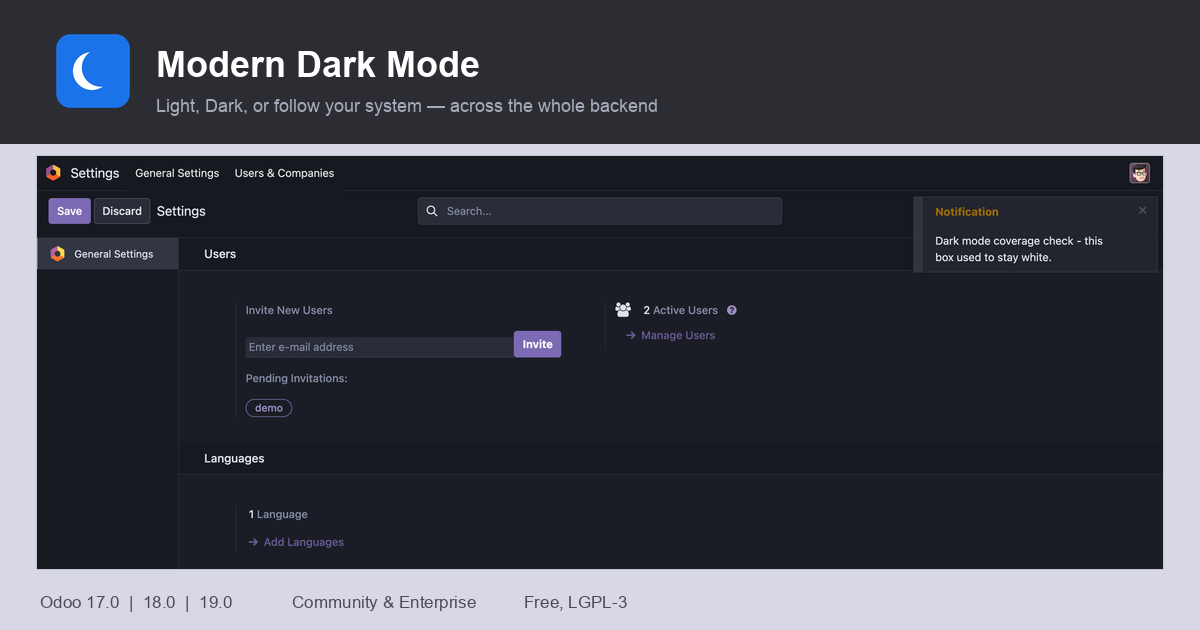
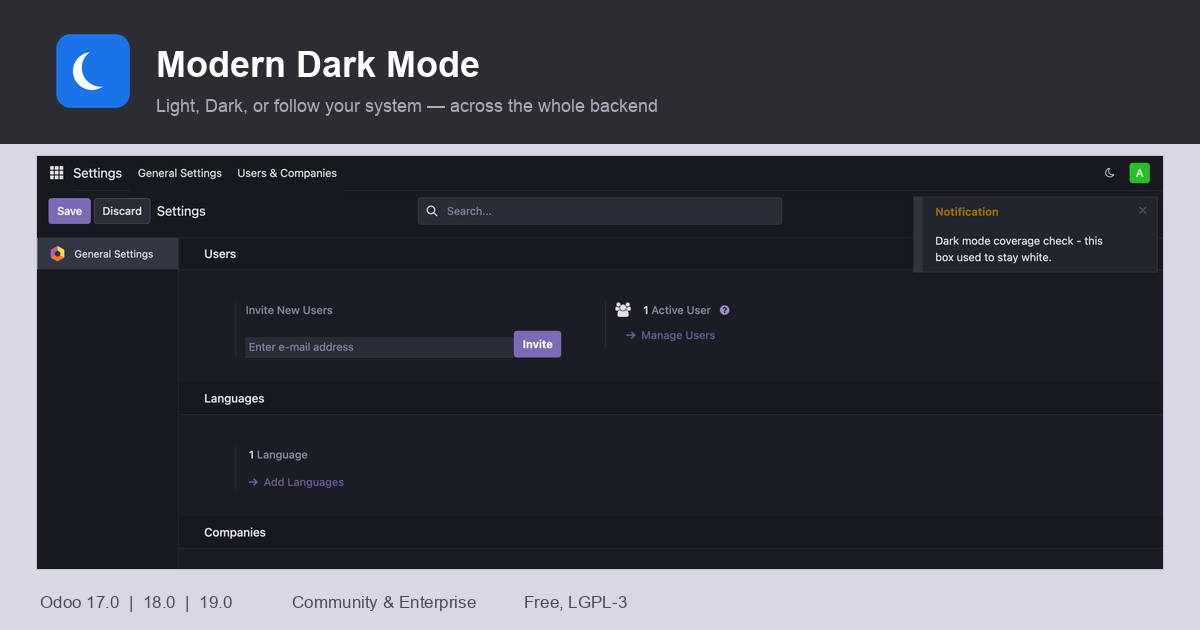
feat(fm_dark_mode): tombol tema sendiri di systray
Modul ini sebenarnya sudah berjalan sendirian - terukur pada database baru
tanpa fm_home_grid: OS gelap memberi body "o_web_client fm-dark" dan latar
tampilan rgb(27,29,38), OS terang mengembalikannya. Bawaannya "system", jadi
temanya mengikuti sistem operasi ke dua arah tanpa bantuan modul mana pun.

Yang tidak ada adalah cara menimpanya. Satu-satunya tombol tema selama ini
digambar oleh fm_home_grid di samping kotak pencariannya, sehingga modul yang
berdiri sendiri dengan baik justru terlihat seperti membutuhkan modul lain.
Sekarang tombolnya ada di systray, bersebelahan dengan avatar.

Sengaja tombol biasa, bukan Dropdown: komponen Dropdown Odoo berubah API
antara 17.0 dan 18.0, sedangkan satu tombol yang berputar adalah kode yang
sama persis di ketiga seri. Supaya keadaan ketiga tidak jadi tebak-tebakan,
judulnya menyebutkan mode yang sedang berlaku SEKALIGUS ke mana tekanan
berikutnya membawa - "Theme: Dark - click to follow your system".

Dua cacat ditemukan lewat pengukuran, bukan lewat pandangan mata:

* Mewarisi warna dari induk terukur 1.55:1 terhadap navbar ungu - yang sampai
  ke tombol adalah warna dokumen, bukan warna navbar. Diganti memakai
  mekanisme navbar Odoo sendiri, var(--NavBar-entry-color, ...), yang dipapar
  18.0 dan 19.0; nilai cadangannya persis $o-navbar-entry-color milik 17.0,
  yang belum memaparkan variabel itu. Hasilnya 5.28:1 di tema terang dan
  17.55:1 di tema gelap.
[…]

diff --git a/fm_dark_mode/static/src/js/theme_switch.js b/fm_dark_mode/static/src/js/theme_switch.js
@@ -1,0 +1,87 @@
+/** @odoo-module **/
+
+import { Component, onMounted, onWillUnmount, useState } from "@odoo/owl";
+import { browser } from "@web/core/browser/browser";
+import { registry } from "@web/core/registry";
+import { _t } from "@web/core/l10n/translation";
+import { useBus, useService } from "@web/core/utils/hooks";
+
+const KEY = "fm_hg_theme";
+
+/**
+ * The theme switch, in the systray.
+ *
+ * Without it this module has no control surface of its own. Installed
+ * alone it still works - the theme follows the operating system - but
+ * there was no way to override that, because the only button was the one
+ * fm_home_grid draws beside its search box. A module that stands on its
+ * own perfectly well therefore looked like it needed another one.
+ *
+ * Deliberately a plain button and not a Dropdown: Odoo's Dropdown
+ * component changed API between 17.0 and 18.0, while one button that
+ * cycles is the same code on all three series.
+ */
+export class ThemeSwitch extends Component {
+  static template = "fm_dark_mode.ThemeSwitch";
+  static props = {};
+
+  setup() {
+    this.darkMode = useService("fm_dark_mode");
+
+    // The mode itself lives in localStorage; this is only a copy so that
+    // OWL knows when to redraw. Three different things can move it: this
+    // button, the home grid's button, and the same user in another tab.
+    this.state = useState({ mode: this.darkMode.mode });
+    const sync = () => {
+      this.state.mode = this.darkMode.mode;
+    };
+
+    useBus(this.env.bus, "FM_HG:THEME-CHANGED", sync);
+
+    // Another tab. The service already re-applies the body class on this
+    // event, but keeping the button's own label honest is ours to do.
+    const onStorage = (ev) => {
+      if (ev.key === KEY) {
+        sync();
+      }
+    };
+    onMounted(() => browser.addEventListener("storage", onStorage));
+    onWillUnmount(() => browser.removeEventListener("storage", onStorage));
+  }
+
+  /** Icon for the mode IN FORCE, not for what a click would do. */
+  get icon() {
+    if (this.state.mode === "dark") {
+      return "fa-moon-o";
+    }
+    if (this.state.mode === "light") {
+      return "fa-sun-o";
+    }
+    return "fa-adjust";
+  }
+
+  /**
+   * Names the mode in force AND what pressing the button does. A single
+   * icon that silently rotates through three states is a guessing game;
+   * saying where the next press lands is what makes the third state -
+   * "follow the system" - findable at all.
+   */
+  get title() {
+    if (this.state.mode === "dark") {
+      return _t("Theme: Dark — click to follow your system");
+    }
+    if (this.state.mode === "light") {
+      return _t("Theme: Light — click for Dark");
+    }
+    return _t("Theme: follows your system — click for Light");
+  }
+
+  onClick() {
+    this.state.mode = this.darkMode.cycle();
+  }
+}
+
+// Sits to the left of the user menu, which registers itself last.
+registry
+  .category("systray")
+  .add("fm_dark_mode.ThemeSwitch", { Component: ThemeSwitch }, { sequence: 25 });

diff --git a/fm_dark_mode/static/description/index.html b/fm_dark_mode/static/description/index.html
@@ -12,6 +12,11 @@
             system and changes with it. The choice lives in your browser, so nothing is
             written to your database and each person picks their own.
         </p>
+        <p style="font-size:16px; line-height:1.7; color:#3E4A55;">
+            It needs nothing else installed. The switch sits in the top bar, next to your
+            avatar, and it names the mode in force as well as where the next press lands
+            &mdash; so the third state is findable rather than guessed at.
+        </p>
     </div>
 </section>
 
@@ -21,6 +26,7 @@
     <p style="max-width:820px; margin:12px auto 0; text-align:center; font-size:14px; color:#6B6B7B;">
         Notifications, dialogs, popovers and tooltips are the first things to give a dark
         theme away. They render in a layer of their own, and most themes never reach it.
+        The switch is the moon in the top right, beside the avatar.
     </p>
 </section>
 
@@ -88,9 +94,11 @@
     <img src="images/home_dark.png" alt="The Modern Home Grid launcher in dark mode with the theme button beside the search box"
          style="display:block; max-width:100%; height:auto; margin:0 auto; border:1px solid #D6DEE6;"/>
     <p style="max-width:820px; margin:12px auto 0; text-align:center; font-size:14px; color:#6B6B7B;">
-        With <strong>Modern Home Grid</strong> installed, a theme button appears beside its
-        search box. Neither module depends on the other &mdash; the home grid simply asks
-        whether a theme service is present, and leaves the button out when it is not.
+        With <strong>Modern Home Grid</strong> installed, a second theme button appears
+        beside its search box, and the two stay in step with each other. Neither module
+        depends on the other &mdash; the home grid simply asks whether a theme service is
+        present, and leaves its button out when it is not. This module is complete on its
+        own; the home grid is a separate free launcher, not a requirement.
     </p>
 </section>
 

diff --git a/fm_dark_mode/static/src/scss/theme_switch.scss b/fm_dark_mode/static/src/scss/theme_switch.scss
@@ -1,0 +1,38 @@
+// ============================================================
+// The systray theme button.
+//
+// Scoped under .o_menu_systray so it can only ever reach the one button.
+// ============================================================
+
+.o_menu_systray .fm_dm_switch {
+  display: flex;
+  align-items: center;
+  // Full navbar height, like every other entry beside it. Sized by
+  // content instead, the clickable area came out 36x14 - the icon and
+  // nothing else, which is a poor target and looks like a mistake next
+  // to the avatar.
+  height: 100%;
+  padding: 0 0.6rem;
+  border: 0;
+  background: transparent;
+
+  // Taken from Odoo's own navbar mechanism rather than written flat:
+  // 18.0 and 19.0 expose --NavBar-entry-color, and any theme repainting
+  // the navbar moves it. 17.0 does not define the variable at all, so the
+  // fallback below is exactly its $o-navbar-entry-color. Inheriting was
+  // the first attempt and it measured 1.55:1 against the purple navbar -
+  // the colour reaching the button was the document's, not the navbar's.
+  color: var(--NavBar-entry-color, rgba(255, 255, 255, 0.9));
+
+  &:hover,
+  &:focus-visible {
+    color: var(--NavBar-entry-color--hover, #fff);
+    background: rgba(255, 255, 255, 0.1);
+  }
+
+  // Bootstrap's focus ring is a rounded box drawn around a button that
+  // has no box of its own here, so it lands in mid-air.
+  &:focus {
+    box-shadow: none;
+  }
+}

diff --git a/fm_dark_mode/__manifest__.py b/fm_dark_mode/__manifest__.py
@@ -37,10 +37,16 @@ becomes visible again, so that no longer happens.
 
 Where the toggle lives
 ----------------------
-Install **Modern Home Grid** as well and a theme button appears beside
-its search box. Without this module that button is not there at all —
-neither module depends on the other; the home grid simply asks whether
-a theme service is present.
+A theme button sits in the top bar, next to your avatar. It names the
+mode in force and where the next press lands, so all three states are
+findable from the button itself.
+
+This module needs nothing else installed. On its own it already follows
+the operating system, and the top-bar button is what lets you overrule
+that. Install **Modern Home Grid** as well and a second theme button
+appears beside its search box — neither module depends on the other; the
+home grid simply asks whether a theme service is present, and leaves its
+button out when it is not.
 
 The choice is stored per browser in ``localStorage`` under
 ``fm_hg_theme``, so nothing is written to your database.
@@ -58,7 +64,10 @@ The choice is stored per browser in ``localStorage`` under
             # they leave, rather than overriding them.
             'fm_dark_mode/static/src/scss/dark_mode.scss',
             'fm_dark_mode/static/src/scss/dark_mode_coverage.scss',
+            'fm_dark_mode/static/src/scss/theme_switch.scss',
             'fm_dark_mode/static/src/js/dark_mode_service.js',
+            'fm_dark_mode/static/src/js/theme_switch.js',
+            'fm_dark_mode/static/src/xml/theme_switch.xml',
         ],
     },
     'images': [
